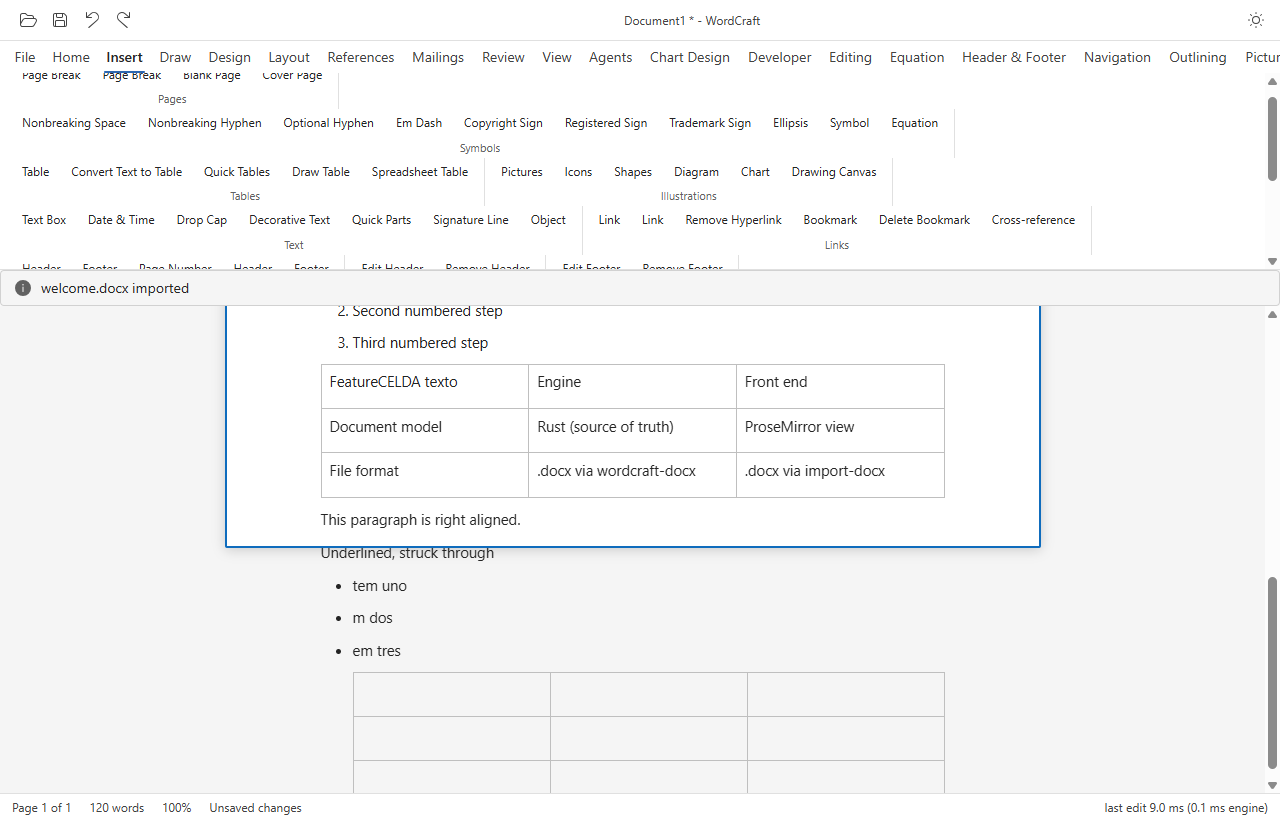
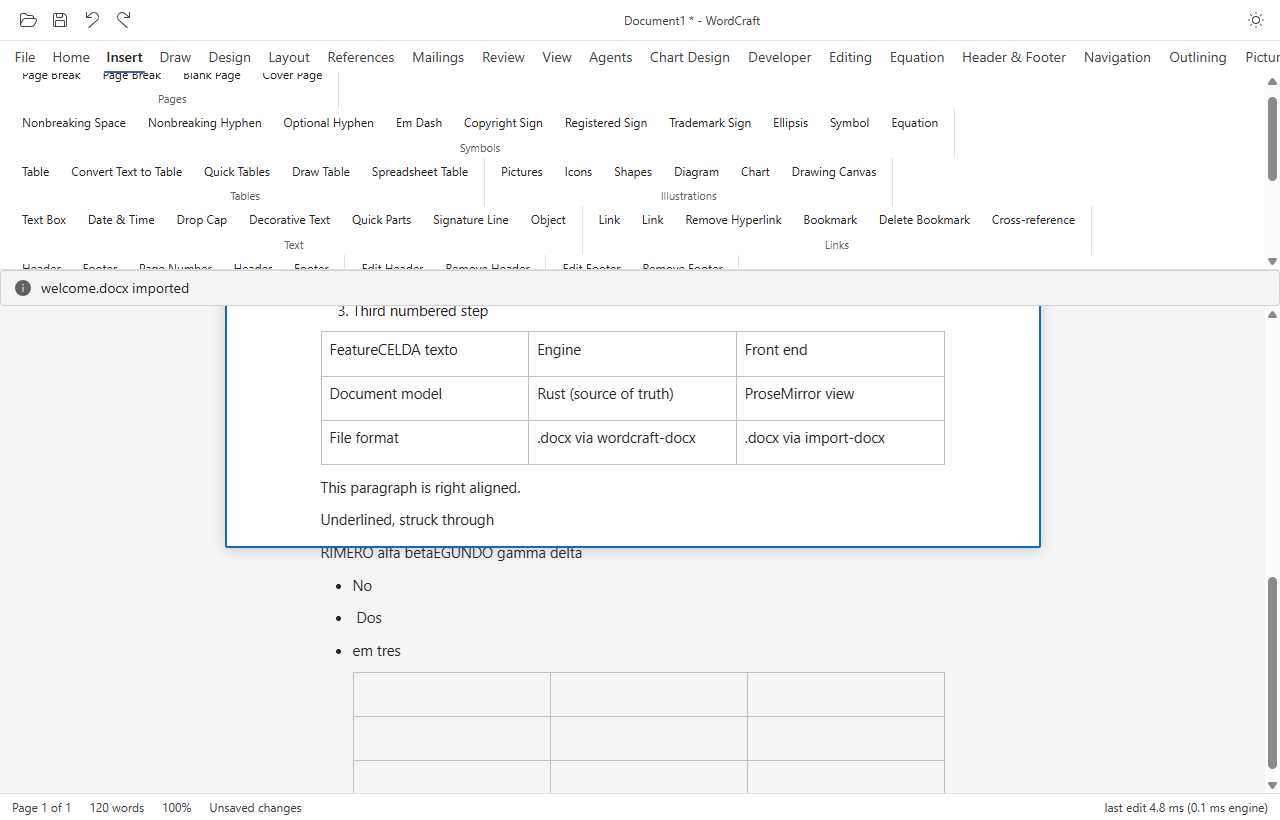
test(history): pin undo under an engine-owned document, and document the cursor protocol
Adds scripts/verify-history.mjs, which exercises the history the engine owns:
typing, Enter and typing inside the window, undo, redo, undo after a merge, undo
after a list and after a table, chained undos, and a final check that the engine
and the view hold the same text.

Baseline run: 7 of 13 pass. Undo and redo do work through the engine and engine
and view agree after them (1b, 6a, 6b). The failures are the known in-flight
character loss (case 1a) and the cases that depend on it.

Also attempted and reverted: replaying the deferred transactions as
position-free operations. It produced 'PMERO alfa beta' and
'SEGUNDO gma deltaamRIWordCra' — an empty paragraph, duplicated document
fragments — so it is reverted rather than shipped. The positional replay that
loses one character is corrupting nothing, and that is the better failure.

docs/desktop-tauri-plan.md now records the protocol: text operations carry no
position, the engine keeps Session::Selection, the view sends CursorMove only
when it differs, and undo belongs to the engine with the view holding no history
of its own.

Checks: 8 of 12 structural, 7 of 13 history. Not ready to merge.

Changed region(s): [[0.4062, 0.3963, 0.7188, 0.5793], [0.25, 0.3659, 0.4062, 0.6402], [0.25, 0.6707, 0.4688, 0.7622]]

diff --git a/apps/wordcraft-tauri/src/editor/DocxEditor.tsx b/apps/wordcraft-tauri/src/editor/DocxEditor.tsx
@@ -190,14 +190,13 @@ export function DocxEditor({ apiRef, onUnsupported, onSynced }: DocxEditorProps)
     for (const original of waiting) {
       const view = apiRef.current.view;
       if (!view) return;
+      // The steps were written against the document that existed before the rebuild, so replaying
+      // them is a best effort: a step that no longer fits is dropped rather than thrown.
       let fresh = view.state.tr;
       for (const step of original.steps) {
         try {
-          const applied = fresh.step(step);
-          if (!applied) continue;
+          fresh.step(step);
         } catch {
-          // The engine removed the region this step edits: drop the step, as ProseMirror's own
-          // rebasing does, instead of failing the whole edit.
           continue;
         }
       }

diff --git a/docs/desktop-tauri-plan.md b/docs/desktop-tauri-plan.md
@@ -47,6 +47,45 @@ themes. Keyboard map generated from the engine registry.
    `role=textbox`, `aria-multiline`, document text in the AX tree, typing reaching both the DOM
    and the AX tree, `Ctrl+B` formatting the text typed at the caret.
 
+## Phase 2 (continued) — the engine owns the cursor
+
+Text operations no longer carry a position. This is the architectural change that removed the
+failure class the bridge kept re-opening.
+
+**Before.** Every operation named a block path (`[3]`, `[2,0,1,0]`) computed when the edit was
+translated. A structural edit — Enter, a join — renumbered the blocks, so a keystroke translated
+during that window addressed a path that had already moved. Three attempts to shrink the window
+(deferred queue, timed reconcile, rebase) each moved it rather than closing it.
+
+**After.** The engine keeps its cursor (`Session::Selection`) between calls, exactly as Word's
+document object does:
+
+| Operation | Carries a position? |
+|---|---|
+| `InsertText { text }` | no |
+| `DeleteBack {}`, `DeleteForward {}`, `DeleteSelection {}` | no |
+| `SplitBlock {}` (Enter) | no |
+| `SetMark { mark, on }` | no — applies to the engine's selection |
+| `CursorMove { path, offset }`, `SelectRange {…}` | yes |
+
+Only the two operations that *move* the cursor name a place, and they are issued when the person
+clicks or uses an arrow key, not when they type. Every answer returns the cursor, so the view sends
+a `CursorMove` only when what it believes differs from what the engine reports. A position the
+engine owns cannot be moved underneath it.
+
+Structural changes still rebuild the view from `project_structure`, in the same reply that applied
+them, so there is no second read to go stale.
+
+### Undo: the engine is the authority
+
+There are not two histories. `edit.undo`/`edit.redo` run in Rust over the engine's own undo
+stack, and the view is corrected from the result — it holds no history of its own
+(`prosemirror-history` is deliberately not installed). A view-local undo would fork the document.
+
+`scripts/verify-history.mjs` pins this down: typing, Enter, undo, redo, undo after a merge, undo
+after a list and after a table, chained undos, and a final check that engine and view hold the same
+text.
+
 ## Phase 2 — the engine owns the document (done, minimal set)
 
 Selected architecture: **the engine is authoritative**. ProseMirror is a projection that sends
